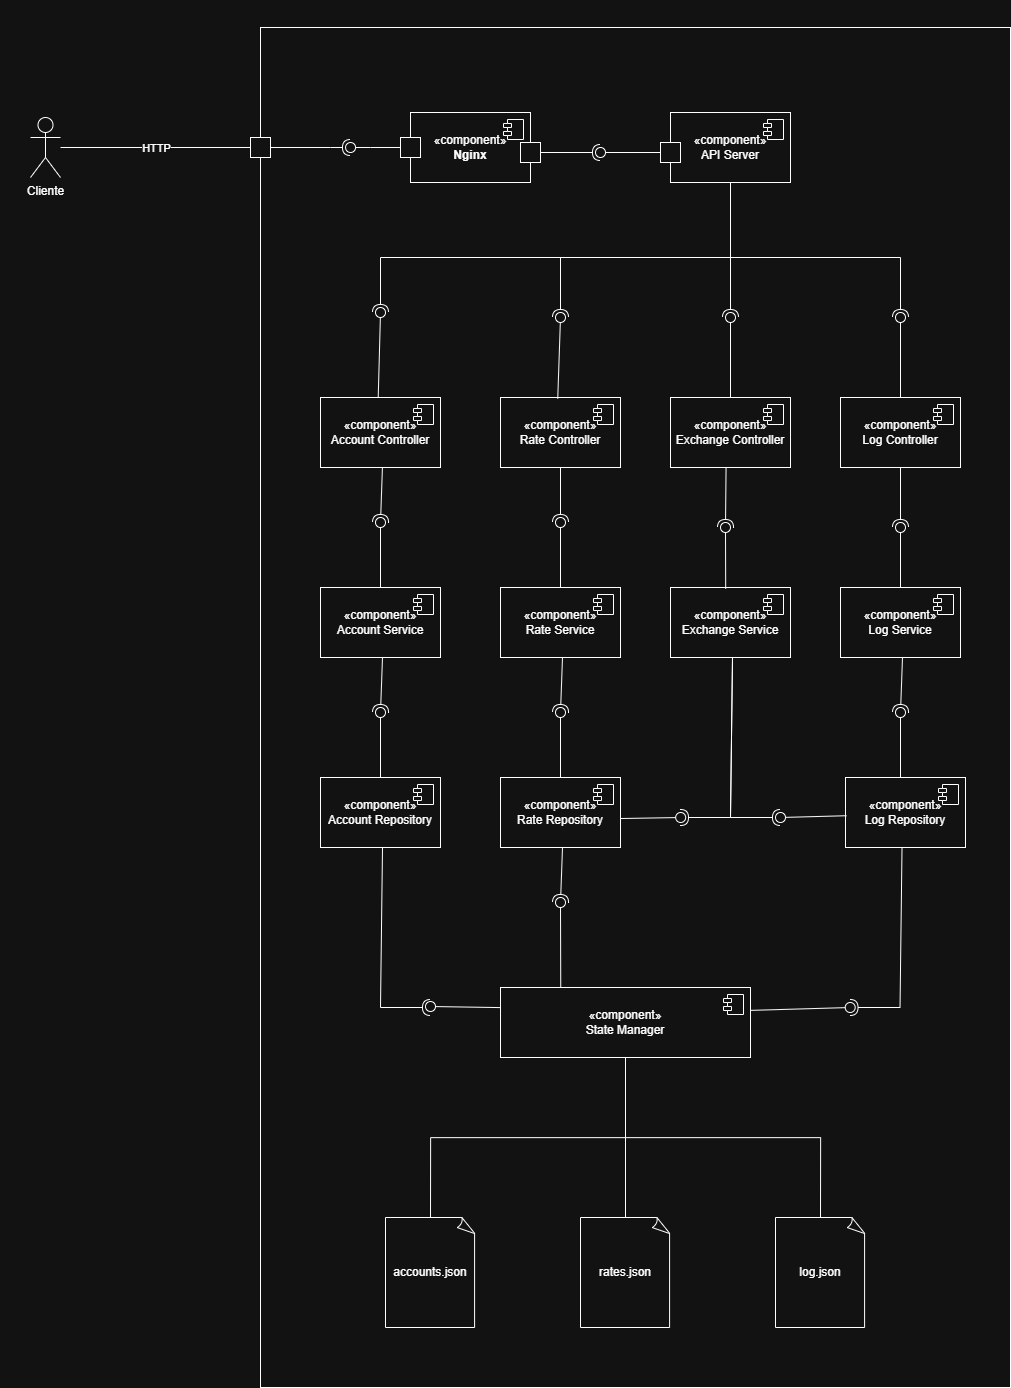
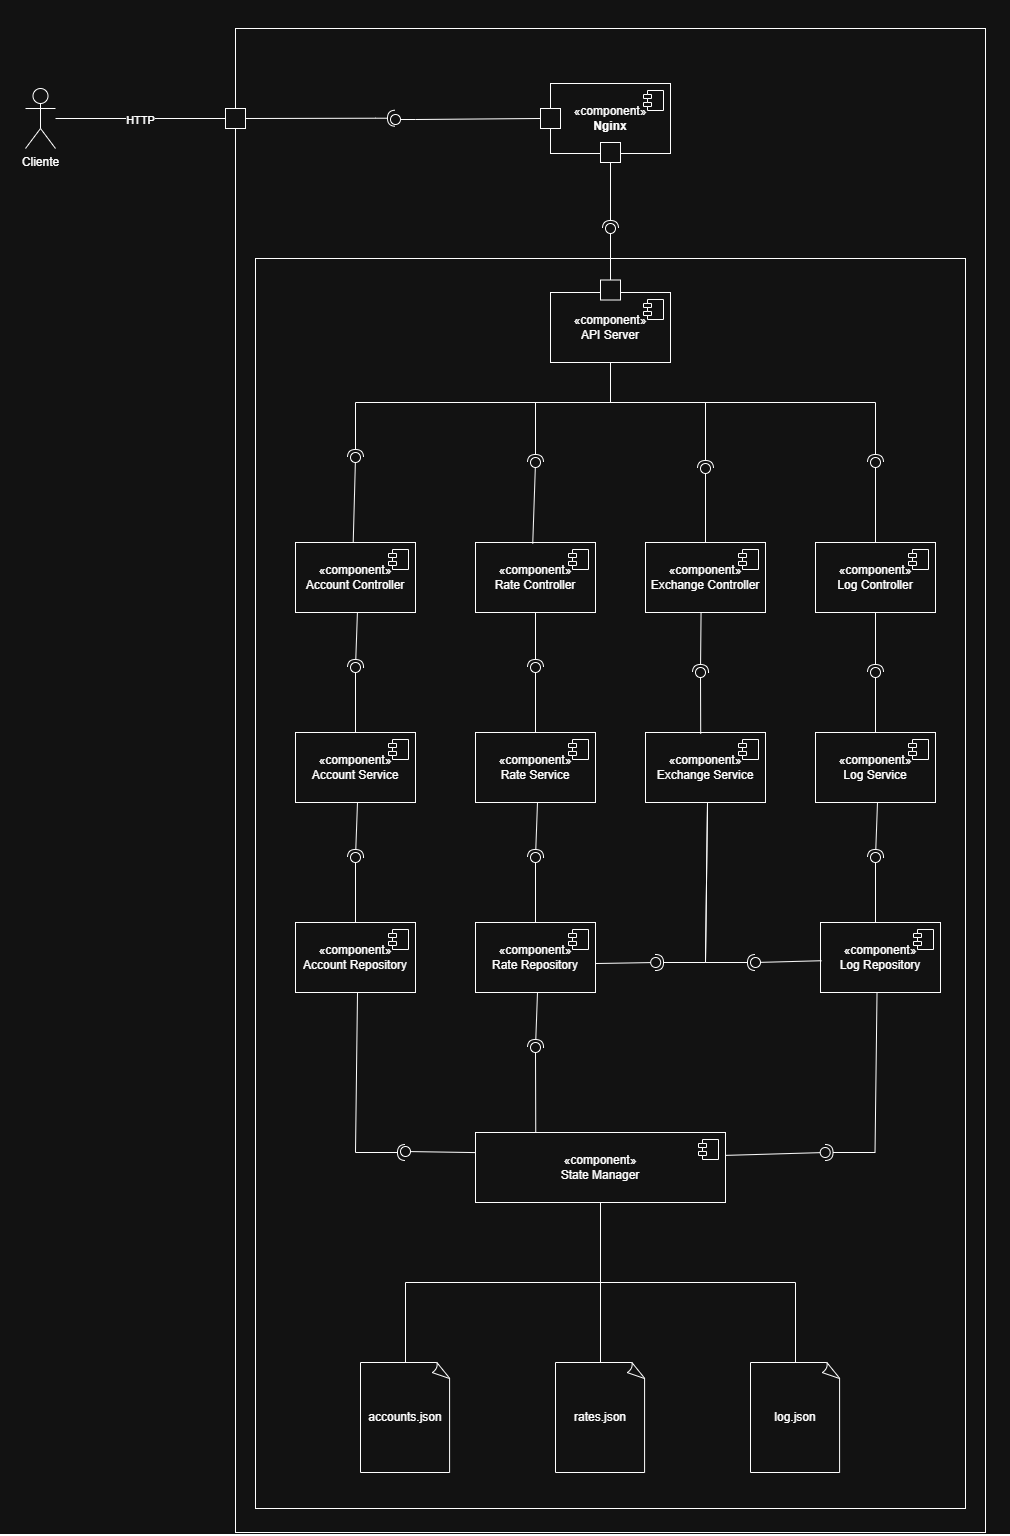
fix: diagramas y agregar seccion de instancias multiples

diff --git a/informe/content/decisiones-de-diseno.tex b/informe/content/decisiones-de-diseno.tex
@@ -123,5 +123,13 @@ Sin distribución de carga entre instancias, todos los requests concurrentes com
 Impacto sobre Scalability
 Nginx no está configurado para balancear hacia múltiples backends. Aunque se pudieran levantar réplicas (`docker compose up --scale api=3`), el upstream hardcodeado a `exchange-api-1` ignorará las instancias adicionales. Para habilitar el balanceo se requiere modificar la configuración de Nginx.
 
-\subsection{Falta de logs de operaciones}
-Impacta en el no repudio (security) y la falta de poder hacer una auditoría.
+\subsubsection{Mejora propuesta}
+
+Con Redis como estado compartido y Nginx reconfigurado para balancear carga, el \textbf{API Server} pasa de ser una instancia única a poder escalar horizontalmente ($1..*$). Nginx distribuye los requests entre las réplicas disponibles, eliminando el SPOF y permitiendo absorber mayor carga concurrente.
+
+\begin{center}
+\includegraphics[width=\textwidth]{images/multiple instances component and connectors.png}
+\captionof{diagrama}{El único cambio respecto al diagrama anterior es la multiplicidad $1..*$ entre \textbf{Nginx} y la aplicación: ahora pueden existir múltiples instancias, cada una con su propia cadena de Controllers, Services y Repositories, todas compartiendo el mismo estado en Redis.}
+\label{diag:arquitectura_multiple_instancias}
+\end{center}
+
